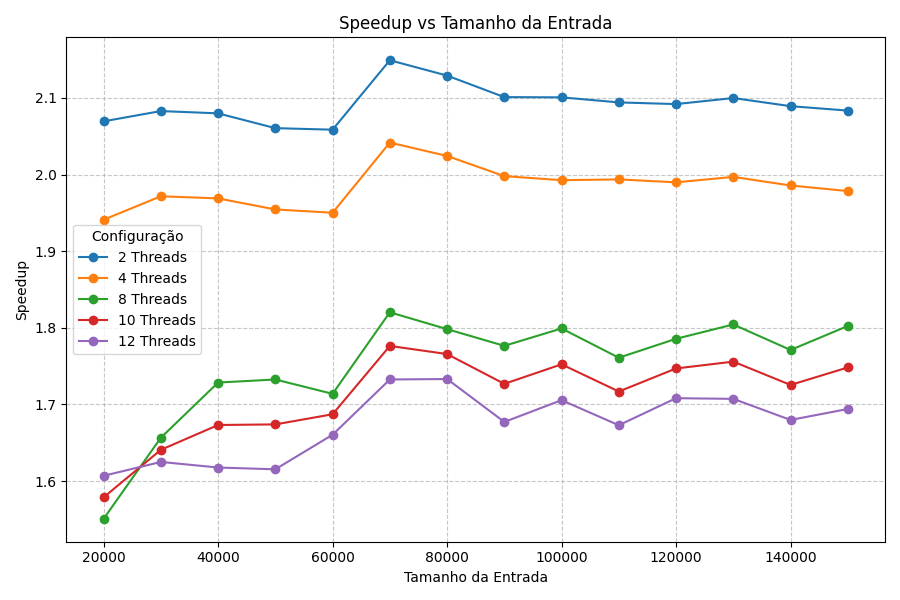
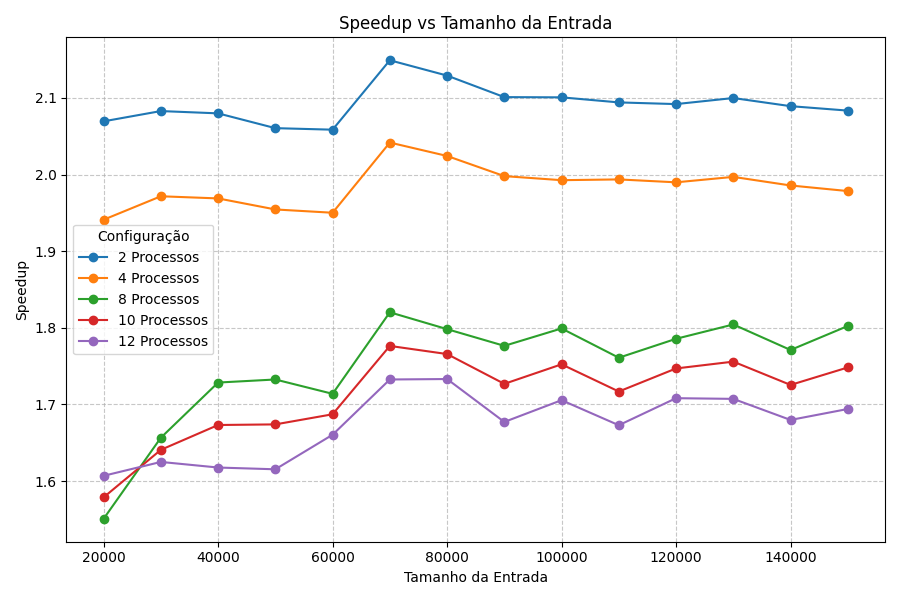
[wip]

Changed region(s): [[0.0933, 0.39, 0.2489, 0.6]]

diff --git a/T2/plot.py b/T2/plot.py
@@ -20,12 +20,12 @@ deviation_df["Entry"] = deviation_df["Entry"].astype(int)
 plt.figure(figsize=(9, 6))
 entries = time_df["Entry"]
 
-for threads in [2, 4, 8, 10, 12]:
+for processes in [2, 4, 8, 10, 12]:
     times = []
     for entry in entries:
         row = time_df[time_df["Entry"] == entry].iloc[0]
-        times.append(row[f"{threads}-avg"])
-    plt.plot(entries, times, marker="o", label=f"{threads} Threads")
+        times.append(row[f"{processes}-avg"])
+    plt.plot(entries, times, marker="o", label=f"{processes} Processos")
 
 # Linha pontilhada para o tempo sequencial
 seq_times = time_df["sequential"]
@@ -42,12 +42,12 @@ plt.close()
 
 # --------- PLOT 2: SPEEDUP vs TAMANHO DA ENTRADA ---------
 plt.figure(figsize=(9, 6))
-for threads in [2, 4, 8, 10, 12]:
+for processes in [2, 4, 8, 10, 12]:
     speedups = []
     for entry in speedup_df["Entry"]:
         row = speedup_df[speedup_df["Entry"] == entry].iloc[0]
-        speedups.append(row[str(threads)])
-    plt.plot(speedup_df["Entry"], speedups, marker="o", label=f"{threads} Threads")
+        speedups.append(row[str(processes)])
+    plt.plot(speedup_df["Entry"], speedups, marker="o", label=f"{processes} Processos")
 
 plt.xlabel("Tamanho da Entrada")
 plt.ylabel("Speedup")
@@ -68,7 +68,7 @@ plt.plot(
     label="Eficiência Observada",
 )
 plt.axhline(1.0, color="black", linestyle="--", label="Eficiência Ideal (1.0)")
-plt.xlabel("Número de Threads")
+plt.xlabel("Número de Processos")
 plt.ylabel("Eficiência")
 plt.title("Eficiência da Escalabilidade Forte")
 plt.legend()
@@ -87,7 +87,7 @@ plt.plot(
     label="Eficiência Observada",
 )
 plt.axhline(1.0, color="black", linestyle="--", label="Eficiência Ideal (1.0)")
-plt.xlabel("Número de Threads")
+plt.xlabel("Número de Processos")
 plt.ylabel("Eficiência")
 plt.title("Eficiência da Escalabilidade Fraca")
 plt.legend()
@@ -101,26 +101,40 @@ plt.figure(figsize=(10, 6))
 width = 3000  # Largura das barras
 x = comm_df["Entry"]
 
-for threads in [2, 4, 8, 10, 12]:
-    total = comm_df[f"{threads}-total"]
-    comm = comm_df[f"{threads}-comm"]
+# Definir pares de cores: (cálculo - claro, comunicação - escuro)
+color_pairs = {
+    2: ("lightgreen", "darkgreen"),
+    4: ("mediumspringgreen", "forestgreen"),
+    8: ("palegreen", "seagreen"),
+    10: ("aquamarine", "teal"),
+    12: ("lightcyan", "darkcyan"),
+}
+
+for processes in [2, 4, 8, 10, 12]:
+    total = comm_df[f"{processes}-total"]
+    comm = comm_df[f"{processes}-comm"]
     calc = total - comm
+
+    calc_color, comm_color = color_pairs[processes]
+
     plt.bar(
-        x + (threads - 8) * width / 5,
+        x + (processes - 8) * width / 5,
         calc,
         width=width / 5,
-        label=f"{threads} Threads - Cálculo",
+        label=f"{processes} Processos - Cálculo",
         bottom=comm,
-        color="green",
-        alpha=0.8,
+        color=calc_color,
+        edgecolor="black",
+        alpha=0.9,
     )
     plt.bar(
-        x + (threads - 8) * width / 5,
+        x + (processes - 8) * width / 5,
         comm,
         width=width / 5,
-        label=f"{threads} Threads - Comunicação",
-        color="red",
-        alpha=0.7,
+        label=f"{processes} Processos - Comunicação",
+        color=comm_color,
+        edgecolor="black",
+        alpha=0.9,
     )
 
 plt.xlabel("Tamanho da Entrada")
@@ -131,18 +145,19 @@ plt.tight_layout()
 plt.savefig("stacked_calc_comm.png")
 plt.close()
 
+
 # --------- PLOT 6: CRESCIMENTO DOS DESVIOS PADRÃO COM O NÚMERO DE PROCESSOS ---------
 plt.figure(figsize=(9, 6))
 
-# Threads que temos desvio: sequential, 2, 4, 8, 10, 12
+# Colunas de desvio
 threads_list = ["sequential-dev", "2-dev", "4-dev", "8-dev", "10-dev", "12-dev"]
 threads_labels = [
-    "Seq",
-    "2 Threads",
-    "4 Threads",
-    "8 Threads",
-    "10 Threads",
-    "12 Threads",
+    "Sequencial",
+    "2 Processos",
+    "4 Processos",
+    "8 Processos",
+    "10 Processos",
+    "12 Processos",
 ]
 
 for idx, dev_col in enumerate(threads_list):
